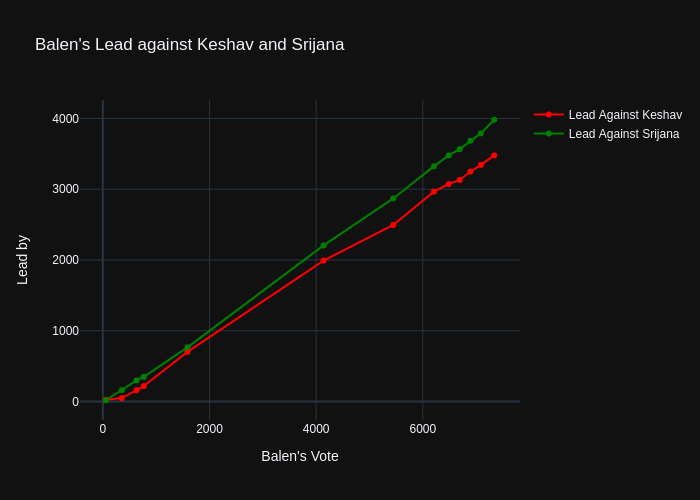
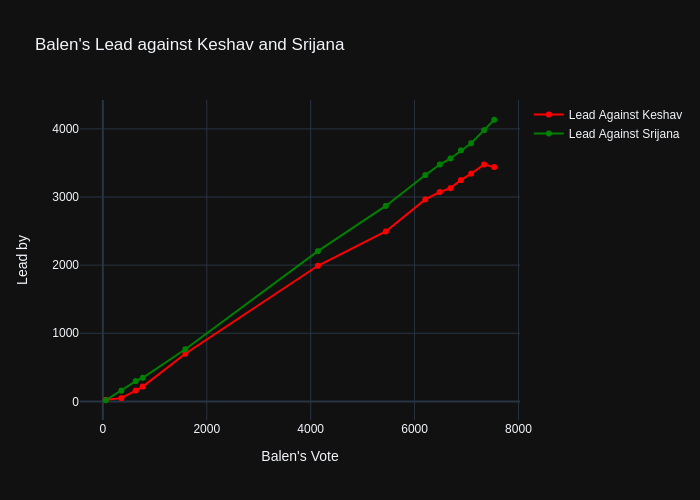
Add data

diff --git a/README.md b/README.md
@@ -1,4 +1,4 @@
-## Last Update:2nd Jestha @ 3:30 PM
+## Last Update:2nd Jestha @ 4:30 PM
 
 ## Balen's Lead against Keshav Sthapit and Srijana Singh
 ![ScreenShot](final.jpg)
